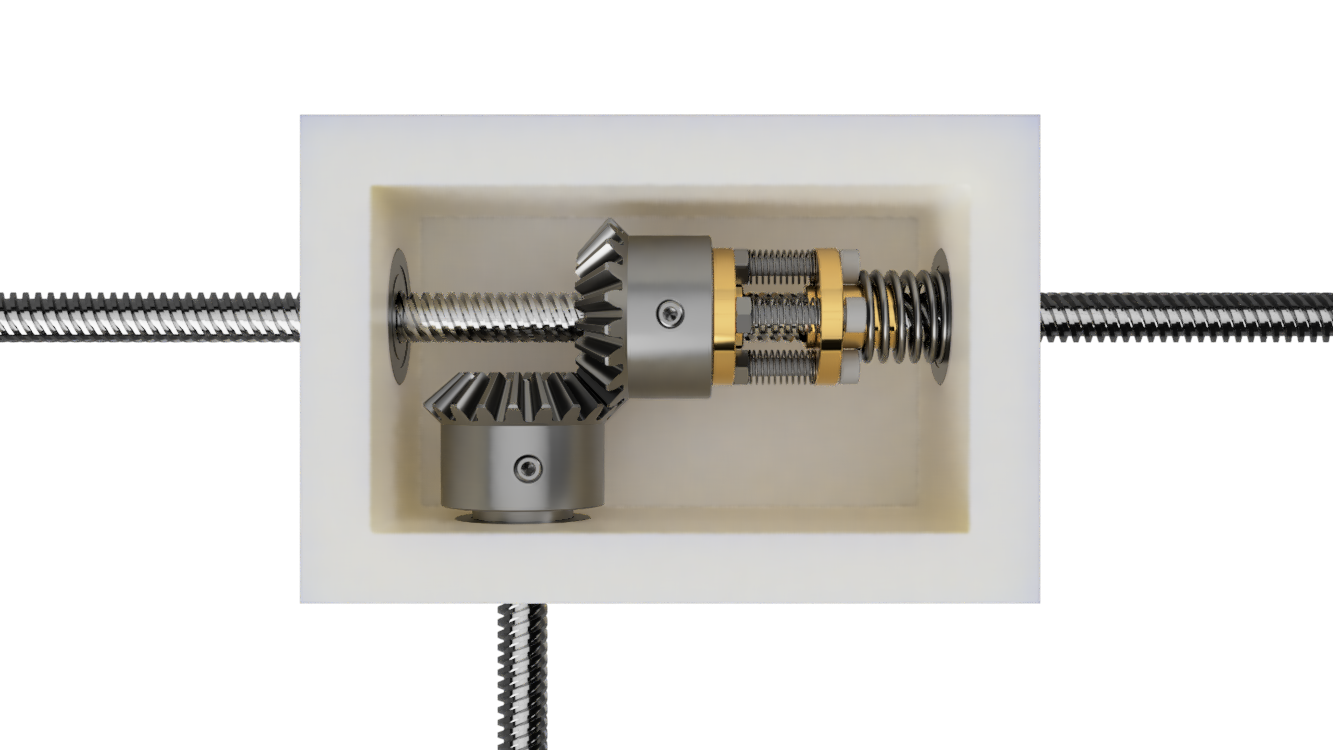
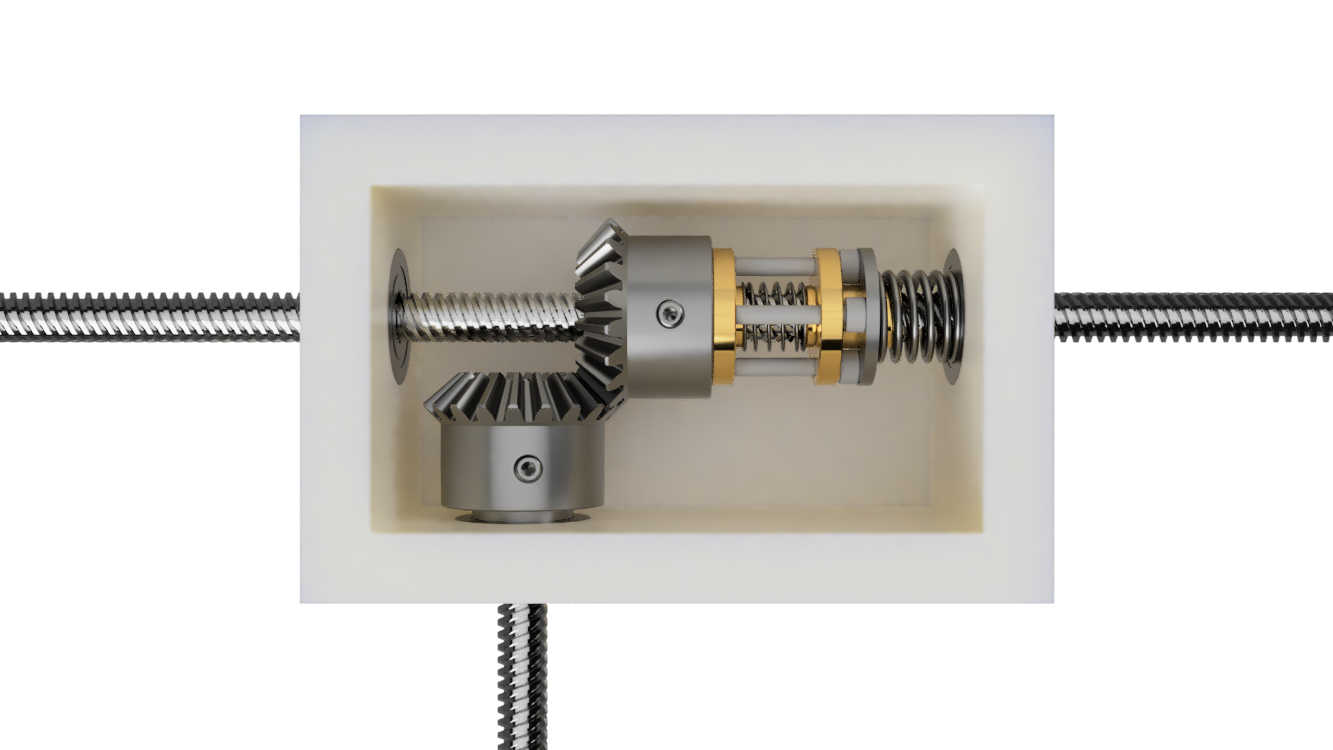
Update gearbox again

Changed region(s): [[0.5536, 0.276, 0.7382, 0.7053], [0.7689, 0.1533, 0.7997, 0.7973]]

diff --git a/README.md b/README.md
@@ -45,9 +45,11 @@ A major consideration when using screws, nuts, or gears is backlash. Backlash is
 
 ![X-Ray](Gearbox_Xray.png)
 
-The proposed gearbox makes use of dual screw nuts preloaded with springs. The two nuts are pushed apart, forming an anti-backlash nut pair. Bolts are used through the flanges, threaded through small hex nuts to keep them in place, but not providing clamping force. Therefore, either direction the screw spins, the backlash is taken up.
+The proposed gearbox makes use of dual screw nuts preloaded with a spring. The two nuts are pushed apart, forming an anti-backlash nut pair. Bolts are used through the flanges to keep the nuts aligned, but not providing clamping force. Therefore, either direction the screw spins, the backlash is taken up.
 
-Similarly, the bevel gear teeth can be meshed fully, or separated to some degree. If they are fully meshed and fit precisely, backlash is taken up. The rightmost spring preloads the `Y` gear/nut assembly by pushing it into the `X` gears.
+Similarly, the bevel gear teeth can be meshed fully, or separated to some degree. If they are fully meshed and fit precisely, backlash is taken up.
+
+> The rightmost spring preloads the `Y` gear/nut by pushing it into the `X` gears. Note that the right spring is pushing on the bolt heads, but not on the right nut; this keeps the right nut preloaded to the right.
 
 With any preloading/anti-backlash system, wear is a concern. With proper lubrication on the nuts and gears, and with the proper spring strength, wear should be minimal since the gantry load is relatively small compared to the strength of the materials.
 
